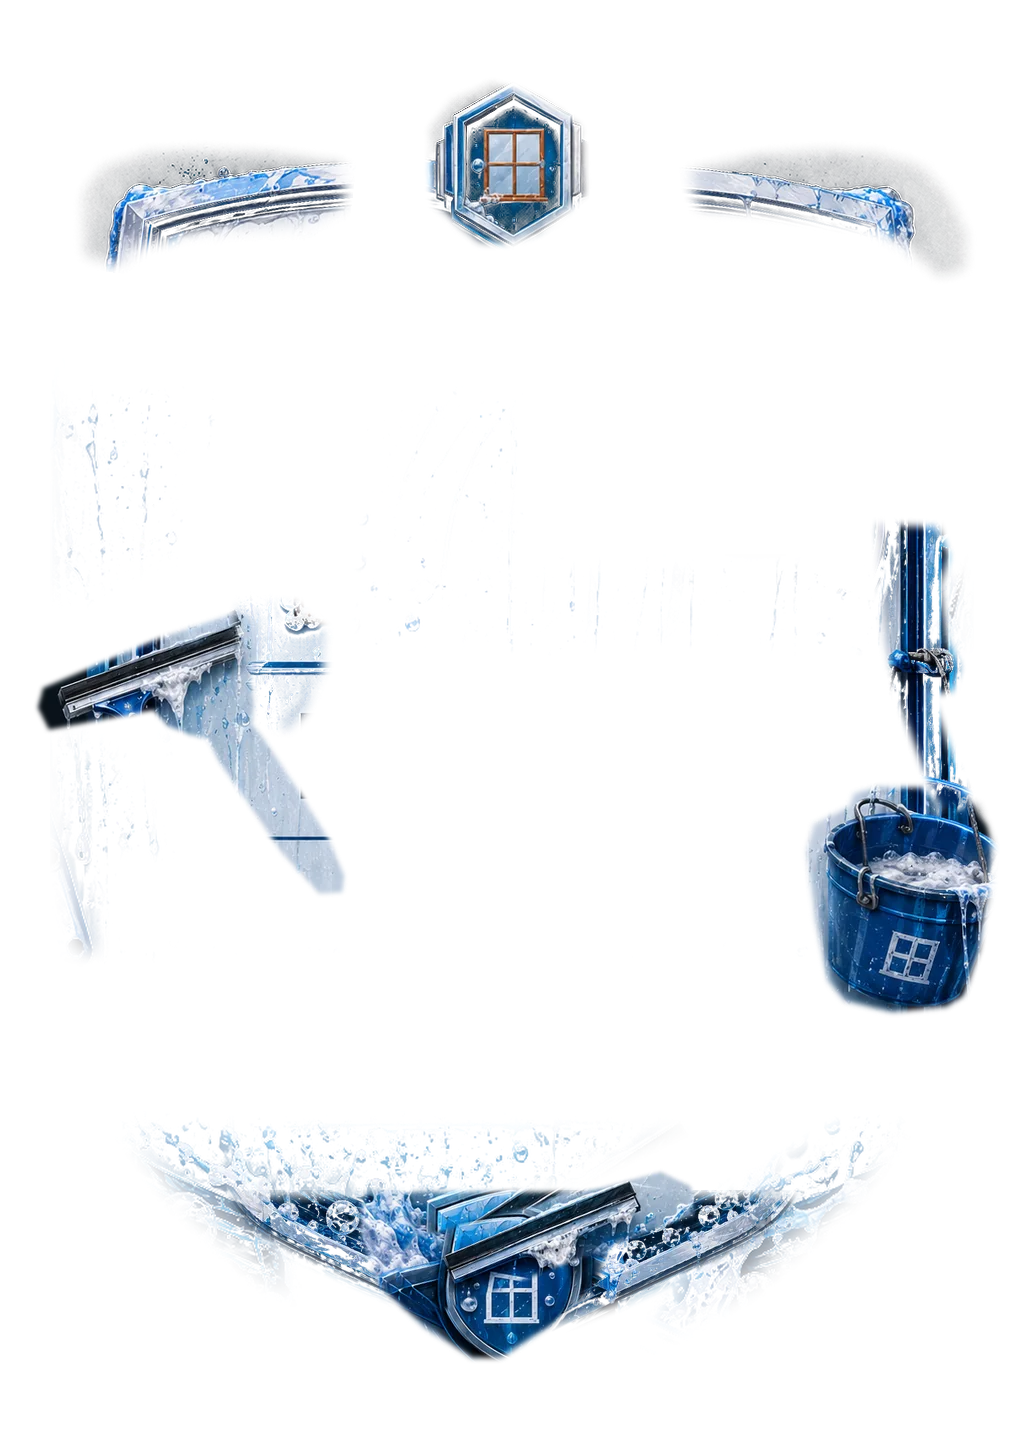
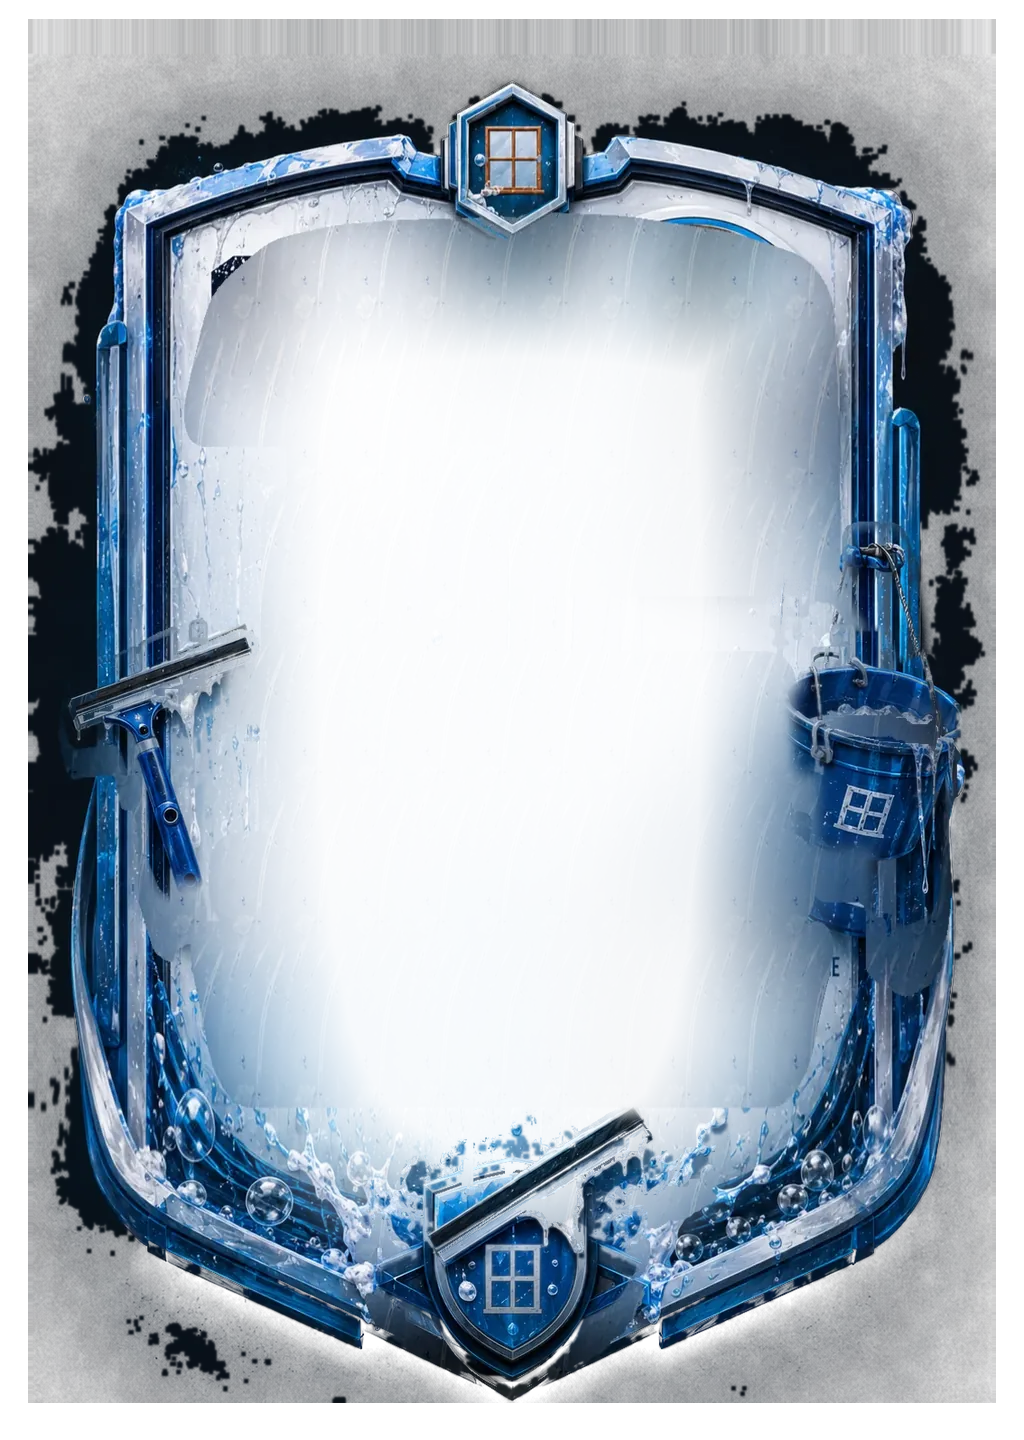
feat(kaart): Glazenwasser-artwork ook op de kaart die spelers zien (#834)
De brede GlazenwasserKaart staat alleen op /dev/glazenwasser. Overal waar in de
app een platina-kaart staat — klassement, kaart-modal, opstelling, profiel,
legenda, pack opening, wrapped — rendert FutKaart met GlazenwasserEffect, en dat
effect tekende nog het oude glazenwasser-master.webp. Van het nieuwe artwork was
dus niets zichtbaar.

glazenwasser-master.webp wordt daarom nu opgebouwd uit dezelfde ring en dezelfde
losse voorwerpen als de brede kaart, in `compacte_master()`. Het kaartvak in dat
doek (880 × 1223 px) heeft dezelfde 100:139 als het stelsel van de ring, dus de
lagen gaan er één op één in: geen tweede afbeelding en geen rek. Daarmee erft
élke aanroeper het nieuwe artwork zonder dat er één regel bij hen verandert — de
flip naar de statistieken, de overlays en de editie-skins blijven van FutKaart.

Eén verschil met de brede kaart: daar tekent de kaart zijn tekst óp de ring, hier
tekent FutKaart zijn tekst eróver. Een dichte ring dekt dan rating, naam en
divisieregel af. De ring dooft in deze master dus naar het midden toe uit, vanaf
de lijst gemeten. Rechthoeken langs de tekstzones uitknippen gaf zichtbare bleke
blokken; een uitdoving houdt vast wat de kaart moet erven — lijst, ijs, water en
bellen — en laat het midden aan het glasvlak van FutKaart zelf.

Verder: de ring liep tot kaartfractie 1,06 en pikte daarmee de ingebakken titel
"Glazenwasser" uit de referentie mee, die op de brede kaart dubbel naast het
[…]

diff --git a/src/features/rating/components/GlazenwasserShowcase.tsx b/src/features/rating/components/GlazenwasserShowcase.tsx
@@ -5,6 +5,7 @@
 // vergeleken.
 
 import { Avatar } from "@/ui/Avatar";
+import { FutKaart, FutKaartDefs, FutKaartVoorkant } from "./FutKaart";
 import { tierFor, tierLegend } from "@/features/rating/tiers";
 import {
   GlazenwasserInfo,
@@ -49,7 +50,29 @@ export function GlazenwasserShowcase() {
           stats={glazenwasserStats(BRON)}
         />
         {tier && <GlazenwasserInfo tier={tier} bereik={bereik} />}
+
+        {/* De compacte kaart eronder. Dít is wat spelers in de app zien — de
+            ranglijst, de kaart-modal, de opstelling en het profiel renderen
+            allemaal FutKaart, niet de brede kaart hierboven. Het artwork komt uit
+            glazenwasser-master.webp, dat uit dezelfde ring en dezelfde voorwerpen
+            wordt opgebouwd. Zonder deze tweede stage is die masterwissel nergens
+            te beoordelen en blijft onzichtbaar of hij klopt. */}
+        <FutKaartDefs />
+        <div className="glazenwasser-showcase__compact" data-glazenwasser-compact>
+          <FutKaart
+            tier={tier}
+            voor={
+                <FutKaartVoorkant
+                  elo={ELO}
+                  tier={tier}
+                  naam={NAAM}
+                  avatar={<Avatar name={NAAM} size={64} />}
+                />
+            }
+          />
+        </div>
       </div>
+
     </div>
   );
 }

diff --git a/src/features/rating/components/GlazenwasserShowcase.css b/src/features/rating/components/GlazenwasserShowcase.css
@@ -28,3 +28,13 @@
 .glazenwasser-showcase .gw-info {
   --gw-kw: min(440px, 84vw);
 }
+
+/* Compacte kaart naast de brede: dít is wat de app toont. */
+.glazenwasser-showcase__compact {
+  /* FutKaart leidt al zijn maten af van --fut-kw; zonder die variabele heeft de
+     kaart geen breedte en rendert er niets. */
+  --fut-kw: min(320px, 80vw);
+  margin: 2rem auto 3rem;
+  display: flex;
+  justify-content: center;
+}

diff --git a/scripts/glazenwasser-onderdelen.py b/scripts/glazenwasser-onderdelen.py
@@ -518,7 +518,12 @@ def inpaint(rgb: np.ndarray, bekend: np.ndarray, zacht: float = 40.0) -> np.ndar
 # over de bovenrand hangt en het water dat langs de flanken naar buiten spat
 # meekomen in plaats van op een rechthoek te worden afgesneden.
 RING_X0, RING_X1 = -0.05, 1.05
-RING_Y0, RING_Y1 = -0.14, 1.06
+# Onder de kaart staat in de referentie het infoblok (titel, ratingbereik,
+# flavor). Gemeten begint dat op fractie 1,025; de waterexplosie is op 1,016 al
+# afgelopen. Ondergrens dus op 1,02: één pixel lager en de ingebakken titel
+# "Glazenwasser" komt mee in de ring, en dan staat hij op de kaart dubbel naast
+# het echte infoblok.
+RING_Y0, RING_Y1 = -0.14, 1.02
 
 
 def _naar_kaart_y(y: float) -> float:
@@ -671,6 +676,98 @@ def kaartring() -> None:
     }
 
 
+# Doek en kaartvak van de compacte master, exact zoals GlazenwasserEffect.css ze
+# registreert (--glazenwasser-master-left/-top/-width). Het kaartvak erin is
+# 880 × 1223 px, oftewel dezelfde 100:139 als het stelsel van de ring.
+MASTER_DOEK = (1024, 1440)
+MASTER_VAK = (72, 160, 880, 1223)
+
+# Verschuiving per voorwerp, gelijk aan `verzet` in GW_LAGEN. Zelfde tabel als in
+# `kaartring()`; staat hier apart zodat de compacte master exact dezelfde
+# compositie oplevert als de brede kaart.
+MASTER_LAGEN = (
+    # naam, z-volgorde
+    ("ophanging", (0.0, 0.0)),
+    ("trekker-boven", (0.0, 0.012)),
+    ("emmer", (0.004, -0.022)),
+    ("onderschild", (0.0, 0.012)),
+)
+
+
+def compacte_master() -> None:
+    """Bouwt glazenwasser-master.webp uit de ring en de losse voorwerpen.
+
+    De brede `GlazenwasserKaart` staat alleen op de dev-route; wat spelers in de
+    app zien is `FutKaart` met dit master-artwork. Zolang die master uit het oude
+    `glazenwasser-master.py` kwam, zag niemand het nieuwe werk. Door hem uit
+    dezelfde ring en dezelfde voorwerpen op te bouwen krijgt élke plek waar een
+    platina-kaart staat het nieuwe artwork, zónder dat er één aanroeper verandert
+    — de flip naar de statistieken, de overlays en de editie-skins blijven van
+    FutKaart.
+
+    Het kaartvak in dit doek heeft dezelfde verhouding als de kaart zelf, dus de
+    lagen worden hier één op één ingezet: geen tweede afbeelding, geen rek."""
+    doek = Image.new("RGBA", MASTER_DOEK, (0, 0, 0, 0))
+    vx, vy, vw, vh = MASTER_VAK
+
+    def plaats(pad: Path, vak: tuple[float, float, float, float]) -> None:
+        left, top, breedte, hoogte = vak
+        b = max(1, int(round(breedte * vw)))
+        h = max(1, int(round(hoogte * vh)))
+        laag = Image.open(pad).convert("RGBA").resize((b, h), Image.LANCZOS)
+        doek.alpha_composite(
+            laag, (int(round(vx + left * vw)), int(round(vy + top * vh)))
+        )
+
+    # De ring naar binnen toe laten uitdoven. De compacte kaart tekent zijn tekst
+    # ín de `voor`-laag, dus alles wat het artwork midden op het vlak zet, komt
+    # over rating, naam en divisieregel te liggen; FutKaart tekent daar bovendien
+    # zijn eigen glasvlak al. Rechthoeken uitknippen langs de tekstzones geeft
+    # zichtbare blokken — een uitdoving vanaf de lijst niet, en die houdt precies
+    # vast wat de kaart wél moet erven: de lijst, het ijs, het water en de bellen.
+    binnen = Image.new("L", MASTER_DOEK, 0)
+    ImageDraw.Draw(binnen).polygon(
+        [
+            (vx + (x - RX0) / RW * vw, vy + _naar_kaart_y((y - RY0) / RH) * vh)
+            for x, y in GLAS_BINNEN
+        ],
+        fill=255,
+    )
+    afstand = ndimage.distance_transform_edt(np.asarray(binnen) > 127)
+    verval = 1.0 - 0.92 * np.clip(afstand / (0.17 * vw), 0, 1)
+
+    ringdoos = DELEN["ring"]["doos"]
+    ringlaag = Image.open(UIT / "gw-ring.webp").convert("RGBA")
+    rb = max(1, int(round(ringdoos[2] * vw)))
+    rh = max(1, int(round(ringdoos[3] * vh)))
+    ringlaag = ringlaag.resize((rb, rh), Image.LANCZOS)
+    ringdoek = Image.new("RGBA", MASTER_DOEK, (0, 0, 0, 0))
+    ringdoek.alpha_composite(
+        ringlaag,
+        (int(round(vx + ringdoos[0] * vw)), int(round(vy + ringdoos[1] * vh))),
+    )
+    ra = np.asarray(ringdoek.split()[3]).astype(np.float32) * verval
+    ringdoek.putalpha(Image.fromarray(np.clip(ra, 0, 255).astype(np.uint8), "L"))
+    doek.alpha_composite(ringdoek)
+
+    for naam, (dx, dy) in MASTER_LAGEN:
+        left, top, breedte, hoogte = DELEN[naam]["doos"]
+        plaats(
+            UIT / f"gw-{naam}.webp",
+            (left + dx, _naar_kaart_y(top) + dy, breedte, naar_kaart_h(hoogte)),
+        )
+
+    pad = UIT / "glazenwasser-master.webp"
+    doek.save(pad, "WEBP", quality=82, method=6)
+    print(f"  {'master (compact)':16s} {doek.width}×{doek.height}px  "
+          f"{pad.stat().st_size // 1024} kB")
+
+
+def naar_kaart_h(h: float) -> float:
+    """Referentiehoogte naar kaarthoogte, gelijk aan `naarKaartH` in de layout."""
+    return h * (1114.0 / 975.0) / (139.0 / 100.0)
+
+
 def main() -> int:
     UIT.mkdir(parents=True, exist_ok=True)
 
@@ -698,6 +795,7 @@ def main() -> int:
         print(f"  {naam:16s} {d['pixels'][2]:4d}×{d['pixels'][3]:4d}px  "
               f"alfa {d['alfa']:.3f}  dekking {d['dekking']:.3f}  {d['kB']:3d} kB"
               f"{'  overlap: ' + spook if spook else ''}")
+    compacte_master()
     (UIT / "gw-onderdelen.json").write_text(
         json.dumps({k: v for k, v in sorted(DELEN.items())}, indent=2) + "\n",
         encoding="utf8",

diff --git a/src/features/rating/components/glazenwasser/ASSET_SPEC.md b/src/features/rating/components/glazenwasser/ASSET_SPEC.md
@@ -5,7 +5,7 @@ Twee generaties artwork naast elkaar, met elk hun eigen afnemer:
 | asset | afnemer | script |
 | --- | --- | --- |
 | `gw-*.webp` — losse onderdelen | `GlazenwasserKaart` (kaart-modal, `/dev/glazenwasser`) | `scripts/glazenwasser-onderdelen.py` |
-| `glazenwasser-master.webp` + `glazenwasser-front-mask.svg` | `GlazenwasserEffect` op `FutKaart` (klassement, opstelling, legenda) | `scripts/glazenwasser-master.py` |
+| `glazenwasser-master.webp` + `glazenwasser-front-mask.svg` | `GlazenwasserEffect` op `FutKaart` (klassement, opstelling, legenda) | `scripts/glazenwasser-onderdelen.py` |
 
 Beide worden gegenereerd uit
 [`docs/fut-kaarten/referentie_glazenwasser.png`](../../../../../docs/fut-kaarten/referentie_glazenwasser.png).
@@ -58,6 +58,14 @@ hierboven is het vertrekpunt, `schaal` en `verzet` daarin zijn de bewuste
 afwijkingen (grotere crest, lagere trekker, emmer verder over de rand).
 
 ## De master (`glazenwasser-master.webp`)
+
+> Deze master komt sinds de artworkpass uit `scripts/glazenwasser-onderdelen.py`
+> (`compacte_master()`), niet meer uit `scripts/glazenwasser-master.py`. Hij wordt
+> opgebouwd uit dezelfde ring en dezelfde losse voorwerpen als de brede kaart,
+> zodat wat spelers in de app zien hetzelfde artwork is. Het kaartvak in dit doek
+> heeft dezelfde 100:139 als het stelsel van de ring, dus de lagen gaan er één op
+> één in. Eén verschil met de brede kaart: hier dooft de ring naar het midden toe
+> uit, want de compacte kaart tekent zijn rating, naam en divisieregel eróver.
 
 De compacte kaart in het klassement blijft de drie-lagenbreakout gebruiken: één
 master op drie diepten, met `glazenwasser-front-mask.svg` als voorselectie. Canvas
